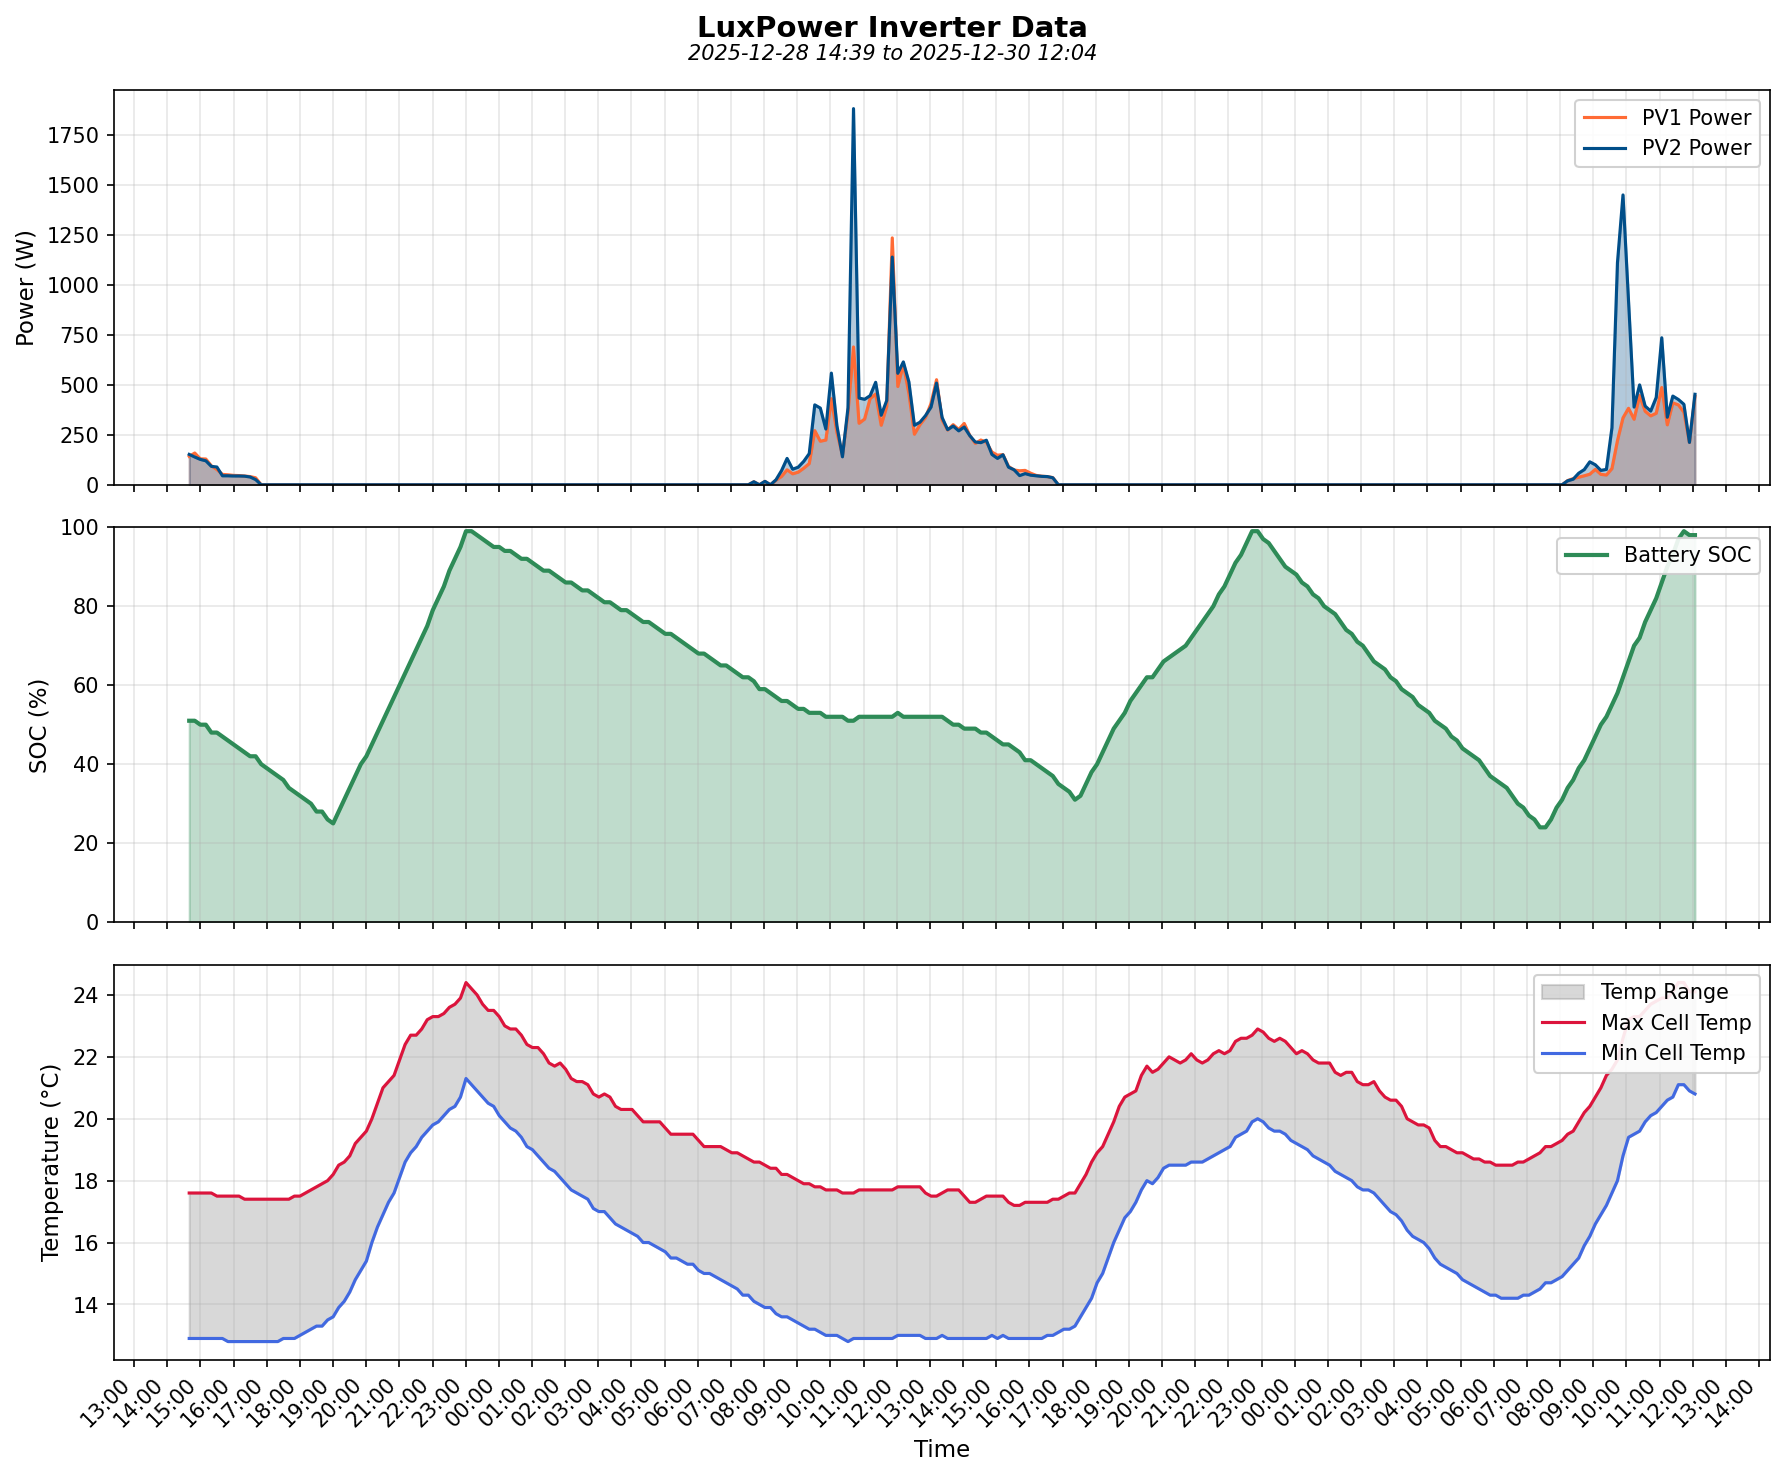
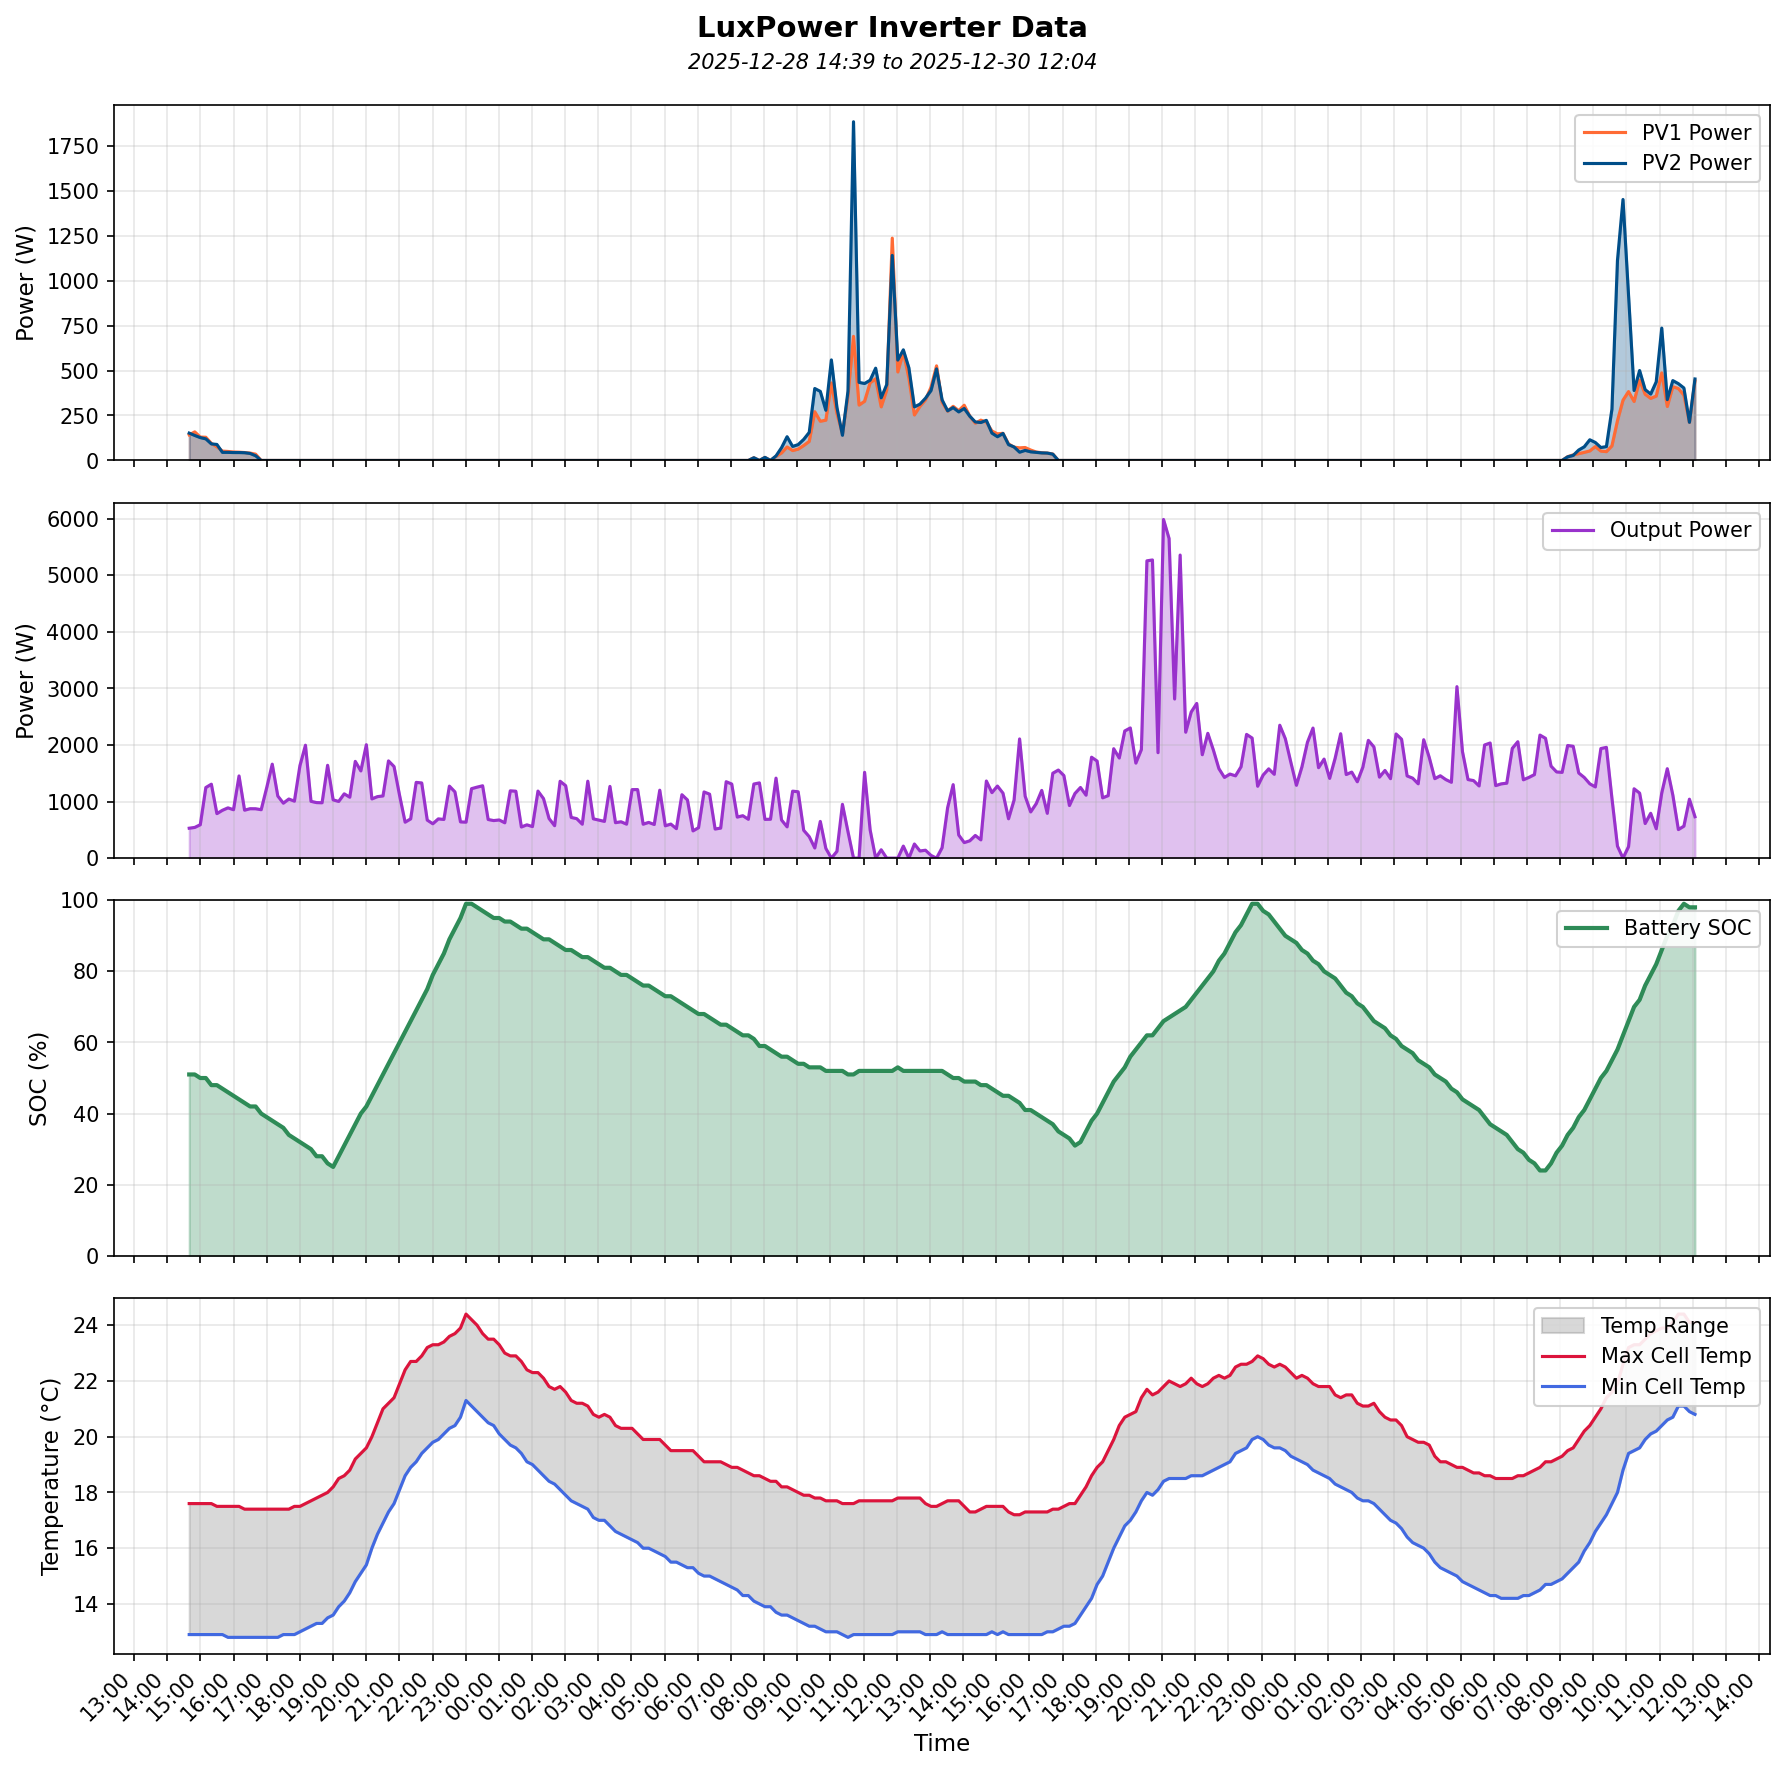
adding output power

diff --git a/plotpower.py b/plotpower.py
@@ -16,16 +16,17 @@ def load_data(filename):
     return df
 
 def create_plot(df, output_file='power_plot.png'):
-    """Create a three-panel plot with PV power, SOC, and cell temperature."""
+    """Create a four-panel plot with PV power, output power, SOC, and cell temperature."""
 
-    # Set up the figure with three subplots sharing x-axis
-    fig, (ax1, ax2, ax3) = plt.subplots(3, 1, figsize=(12, 10), sharex=True)
+    # Set up the figure with four subplots sharing x-axis
+    fig, (ax1, ax2, ax3, ax4) = plt.subplots(4, 1, figsize=(12, 12), sharex=True)
     fig.suptitle('LuxPower Inverter Data', fontsize=14, fontweight='bold')
 
     # Color scheme
     colors = {
         'pv1': '#FF6B35',      # Orange
         'pv2': '#004E89',      # Blue
+        'discharge': '#9932CC', # Dark orchid (purple)
         'soc': '#2E8B57',      # Sea green
         'temp_max': '#DC143C', # Crimson
         'temp_min': '#4169E1', # Royal blue
@@ -41,29 +42,37 @@ def create_plot(df, output_file='power_plot.png'):
     ax1.grid(True, alpha=0.3)
     ax1.set_ylim(bottom=0)
 
-    # Plot 2: Battery SOC
-    ax2.fill_between(df['timestamp'], df['soc_pct'], alpha=0.3, color=colors['soc'])
-    ax2.plot(df['timestamp'], df['soc_pct'], color=colors['soc'], linewidth=2, label='Battery SOC')
-    ax2.set_ylabel('SOC (%)', fontsize=11)
+    # Plot 2: Output Power (Discharge)
+    ax2.fill_between(df['timestamp'], df['p_discharge_w'], alpha=0.3, color=colors['discharge'])
+    ax2.plot(df['timestamp'], df['p_discharge_w'], color=colors['discharge'], linewidth=1.5, label='Output Power')
+    ax2.set_ylabel('Power (W)', fontsize=11)
     ax2.legend(loc='upper right', framealpha=0.9)
     ax2.grid(True, alpha=0.3)
-    ax2.set_ylim(0, 100)
+    ax2.set_ylim(bottom=0)
 
-    # Plot 3: Cell Temperature
-    ax3.fill_between(df['timestamp'], df['min_cell_temp_c'], df['max_cell_temp_c'],
-                     alpha=0.3, color='#808080', label='Temp Range')
-    ax3.plot(df['timestamp'], df['max_cell_temp_c'], color=colors['temp_max'],
-             linewidth=1.5, label='Max Cell Temp')
-    ax3.plot(df['timestamp'], df['min_cell_temp_c'], color=colors['temp_min'],
-             linewidth=1.5, label='Min Cell Temp')
-    ax3.set_ylabel('Temperature (°C)', fontsize=11)
-    ax3.set_xlabel('Time', fontsize=11)
+    # Plot 3: Battery SOC
+    ax3.fill_between(df['timestamp'], df['soc_pct'], alpha=0.3, color=colors['soc'])
+    ax3.plot(df['timestamp'], df['soc_pct'], color=colors['soc'], linewidth=2, label='Battery SOC')
+    ax3.set_ylabel('SOC (%)', fontsize=11)
     ax3.legend(loc='upper right', framealpha=0.9)
     ax3.grid(True, alpha=0.3)
+    ax3.set_ylim(0, 100)
+
+    # Plot 4: Cell Temperature
+    ax4.fill_between(df['timestamp'], df['min_cell_temp_c'], df['max_cell_temp_c'],
+                     alpha=0.3, color='#808080', label='Temp Range')
+    ax4.plot(df['timestamp'], df['max_cell_temp_c'], color=colors['temp_max'],
+             linewidth=1.5, label='Max Cell Temp')
+    ax4.plot(df['timestamp'], df['min_cell_temp_c'], color=colors['temp_min'],
+             linewidth=1.5, label='Min Cell Temp')
+    ax4.set_ylabel('Temperature (°C)', fontsize=11)
+    ax4.set_xlabel('Time', fontsize=11)
+    ax4.legend(loc='upper right', framealpha=0.9)
+    ax4.grid(True, alpha=0.3)
 
     # Format x-axis
-    ax3.xaxis.set_major_formatter(mdates.DateFormatter('%H:%M'))
-    ax3.xaxis.set_major_locator(mdates.HourLocator(interval=1))
+    ax4.xaxis.set_major_formatter(mdates.DateFormatter('%H:%M'))
+    ax4.xaxis.set_major_locator(mdates.HourLocator(interval=1))
     plt.xticks(rotation=45, ha='right')
 
     # Add date range to title
